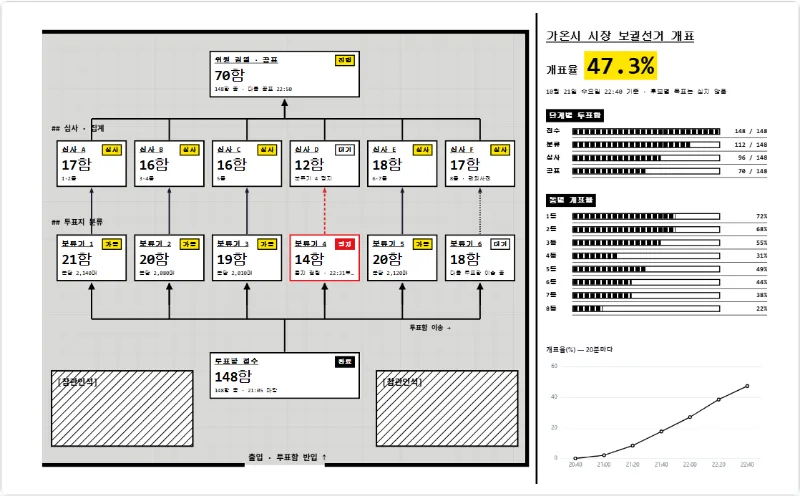
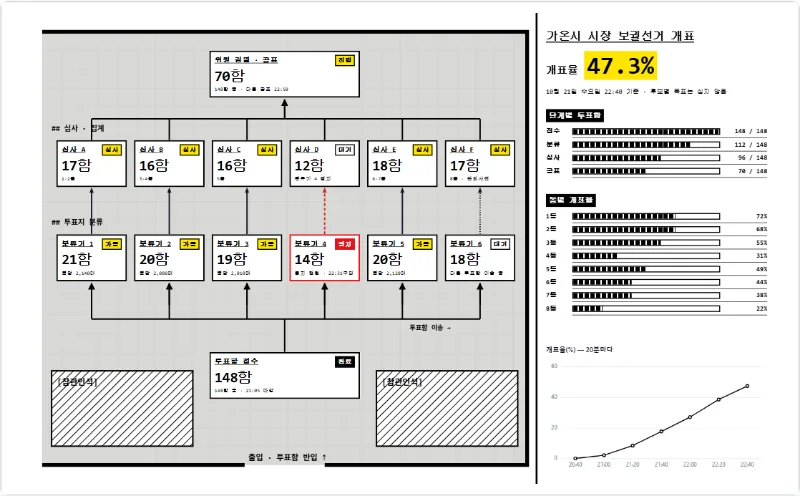
fix: look reports a text an element cuts short with an ellipsis; the rules say how to size a marker; two gallery boards no longer cut a line short

diff --git a/packages/samples/src/packs/recycling-polaroid.ts b/packages/samples/src/packs/recycling-polaroid.ts
@@ -33,7 +33,7 @@ const board: Board = {
     },
     "trucks": {
       "template": "<section class=\"tr\"><h2>오늘 나가는 트럭</h2><ol>{{#items}}<li class=\"{{state}}\"><time>{{time}}</time><b>{{what}}</b><span>{{to}}</span><em>{{word}}</em></li>{{/items}}</ol></section>",
-      "style": ".tr{height:100%;box-sizing:border-box;padding:14px 18px 0 72px;font-family:\"Nanum Pen Script\", \"Nanum Brush Script\", cursive;color:#2a2f3a}\nh2{margin:0 0 10px;font:36px/1 \"Nanum Pen Script\", \"Nanum Brush Script\", cursive}\nol{margin:0;padding:0;list-style:none}\nli{display:grid;grid-template-columns:52px minmax(0,1fr) 124px 62px;gap:8px;align-items:baseline;height:34px;font:21px/34px \"Nanum Pen Script\", \"Nanum Brush Script\", cursive;white-space:nowrap}\nli>*{overflow:hidden;text-overflow:ellipsis}\ntime{font:14px \"Pretendard\", \"Malgun Gothic\", \"Apple SD Gothic Neo\", sans-serif;font-variant-numeric:tabular-nums;color:#5b6270}\nspan{color:#5b6270}\nem{font-style:normal;text-align:center}\n.done{color:#8a8f99}.done em{text-decoration:line-through}\n.loading em{border-bottom:2px solid #2a2f3a}\n.waiting em{color:#d23a2f}",
+      "style": ".tr{height:100%;box-sizing:border-box;padding:14px 18px 0 72px;font-family:\"Nanum Pen Script\", \"Nanum Brush Script\", cursive;color:#2a2f3a}\nh2{margin:0 0 10px;font:36px/1 \"Nanum Pen Script\", \"Nanum Brush Script\", cursive}\nol{margin:0;padding:0;list-style:none}\nli{display:grid;grid-template-columns:52px minmax(0,1fr) 116px 62px;gap:8px;align-items:baseline;height:34px;font:21px/34px \"Nanum Pen Script\", \"Nanum Brush Script\", cursive;white-space:nowrap}\nli>*{overflow:hidden;text-overflow:ellipsis}\ntime{font:14px \"Pretendard\", \"Malgun Gothic\", \"Apple SD Gothic Neo\", sans-serif;font-variant-numeric:tabular-nums;color:#5b6270}\nspan{color:#5b6270}\nem{font-style:normal;text-align:center}\n.done{color:#8a8f99}.done em{text-decoration:line-through}\n.loading em{border-bottom:2px solid #2a2f3a}\n.waiting em{color:#d23a2f}",
       "props": {
         "items": "list"
       }

diff --git a/packages/samples/src/packs/count-hall.ts b/packages/samples/src/packs/count-hall.ts
@@ -28,7 +28,7 @@ const board: Board = {
   "elements": {
     "station": {
       "template": "<section class=\"st {{s.state}}\"><header><b>{{s.name}}</b><span>{{s.word}}</span></header><strong>{{s.count}}</strong><small>{{s.sub}}</small></section>",
-      "style": ".st{height:100%;box-sizing:border-box;display:grid;align-content:space-between;padding:6px 8px;background:#fff;border:3px solid #000000;font-family:\"IBM Plex Mono\", \"D2Coding\", \"JetBrains Mono\", Consolas, \"Courier New\", monospace;color:#000000}\nheader{display:flex;justify-content:space-between;align-items:baseline;gap:6px}\nb{font-size:15px;font-weight:700;text-decoration:underline}\nspan{font-size:13px;font-weight:700;padding:0 4px;border:2px solid #000000}\n.run span{background:#ffe500}\n.done span{background:#000000;color:#fff}\n.stop{border-color:#e5141b;outline:3px solid #e5141b}\n.stop span{background:#e5141b;color:#fff;border-color:#e5141b}\nstrong{font-size:30px;font-weight:700;line-height:1;font-variant-numeric:tabular-nums}\nsmall{font-size:12px;white-space:nowrap;overflow:hidden;text-overflow:ellipsis}",
+      "style": ".st{height:100%;box-sizing:border-box;display:grid;align-content:space-between;padding:6px 8px;background:#fff;border:3px solid #000000;font-family:\"IBM Plex Mono\", \"D2Coding\", \"JetBrains Mono\", Consolas, \"Courier New\", monospace;color:#000000}\nheader{display:flex;justify-content:space-between;align-items:baseline;gap:6px}\nb{font-size:15px;font-weight:700;text-decoration:underline}\nspan{font-size:13px;font-weight:700;padding:0 4px;border:2px solid #000000}\n.run span{background:#ffe500}\n.done span{background:#000000;color:#fff}\n.stop{border-color:#e5141b;outline:3px solid #e5141b}\n.stop span{background:#e5141b;color:#fff;border-color:#e5141b}\nstrong{font-size:30px;font-weight:700;line-height:1;font-variant-numeric:tabular-nums}\nsmall{font-size:11px;white-space:nowrap;overflow:hidden;text-overflow:ellipsis}",
       "props": {
         "s": "object"
       }

diff --git a/packages/mcp/src/look-page.ts b/packages/mcp/src/look-page.ts
@@ -47,6 +47,18 @@ export function findProblems(
     return spill;
   }
 
+  /** How many texts inside `root` are cut short with an ellipsis — a line set to end in "…" when it does not fit (what the
+   *  built-in markers do with a name or a note) that is wider than its box. The reader sees "Ex…"; nothing spills, so
+   *  `spillOf` says nothing of it. */
+  function cutShortIn(root: ShadowRoot): number {
+    let cut = 0;
+    for (const part of root.querySelectorAll('*')) {
+      if (part instanceof HTMLStyleElement) continue;
+      if (getComputedStyle(part).textOverflow === 'ellipsis' && part.scrollWidth > part.clientWidth + 1) cut += 1;
+    }
+    return cut;
+  }
+
   /** How far down the boxes drawn inside `root` reach, shadow roots within it included — the bottom of the content.
    *  Boxes, not the scroll height: a line's text may reach a few px past its line box (a font's own height over a
    *  tight line height), which scrolls nothing and cuts nothing off. */
@@ -71,6 +83,8 @@ export function findProblems(
     const element = frame.querySelector('[data-element]') as HTMLElement | null;
     const spill = element?.shadowRoot ? spillOf(element, element.shadowRoot) : 0;
     if (spill > spillTolerancePx) out.push({ path, message: `its element draws up to ${Math.round(spill)} px past its box — over its neighbours; give the node more room or draw smaller` });
+    const cut = element?.shadowRoot ? cutShortIn(element.shadowRoot) : 0;
+    if (cut > 0) out.push({ path, message: `its element cuts ${cut === 1 ? 'a text' : `${cut} texts`} short with "…" — the box is too narrow for ${cut === 1 ? 'it' : 'them'}; give the node more width (its size) rather than a shorter text` });
     const widget = frame.querySelector('u-widget') as HTMLElement | null;
     const inner = (widget?.shadowRoot?.firstElementChild ?? widget) as HTMLElement | null;
     if (inner) {

diff --git a/packages/designer/src/board/rulebook.ts b/packages/designer/src/board/rulebook.ts
@@ -92,7 +92,9 @@ ${PART_KINDS.map(kindRow).join('\n')}`,
   an \`each\` part is placed item by item inside its own entry (\`{ "P1": [x, y, w, h], … }\`), or — when the items change and cannot be
   named — by their own fields: \`"quake": { "at": ["lon", "lat"], "frame": [-180, 90, 180, -90], "size": [14, 14] }\` puts each item
   at the point its two fields say; \`frame\` is the values at the canvas's left, top, right and bottom edges (the canvas's own
-  coordinates when left out), \`size\` the box centred on the point (give one for a marker). An item with no number in a field, or
+  coordinates when left out), \`size\` the box centred on the point (give one for a marker: a dot alone is [14, 14]; a marker that carries
+  its name, status or note draws them to the right of the dot, so give it the room for the text — about [150, 40] — and know the box, not
+  the dot, is what is centred on the point). An item with no number in a field, or
   outside the frame, is not drawn — \`look\` counts them. The data needs a \`key\`; the projection is linear (right for a plan or an
   equirectangular map). A part is placed one way, not both. A shape is a \`box\` (with \`label\`), a \`text\` at a point,
   a \`line\` through points or a \`path\` (absolute M · L · C · Q · Z).

diff --git a/packages/mcp/src/look-page.e2e.test.ts b/packages/mcp/src/look-page.e2e.test.ts
@@ -49,6 +49,16 @@ describe('findProblems', () => {
     ]);
   });
 
+  it('reports a text an element cuts short with an ellipsis — nothing spills, the reader sees "Ex…" — and none that fits', async () => {
+    const line = (width: number) => `<template shadowrootmode="open"><div style="width:${width}px;display:grid"><b style="overflow:hidden;text-overflow:ellipsis;white-space:nowrap">Excavator A</b></div></template>`;
+    await show(`
+      <div data-node-id="a"><div data-element style="position:relative;width:40px;height:20px">${line(40)}</div></div>
+      <div data-node-id="b"><div data-element style="position:relative;width:200px;height:20px">${line(200)}</div></div>`);
+    expect(await page.evaluate(findProblems, [node('a'), node('b')])).toEqual([
+      { path: '/nodes/a', message: 'its element cuts a text short with "…" — the box is too narrow for it; give the node more width (its size) rather than a shorter text' },
+    ]);
+  });
+
   it('does not count what the element cuts off itself — but does count a positioned part its static clip does not cut', async () => {
     await show(`
       <div data-node-id="a"><div data-element style="position:relative;width:100px;height:50px">

diff --git a/packages/mcp/CHANGELOG.md b/packages/mcp/CHANGELOG.md
@@ -17,6 +17,9 @@ All notable changes to this package are documented here. The format follows
   was called wrong by `validate`.
 - The rules' JSON Patch section says `add` makes only the last part of its path — a new board has no `/data` or `/statuses` to
   add into — and that renaming a part changes every `of` and `each` that names it.
+- **`look` reports a text an element cuts short with "…"** — a built-in marker whose box is too narrow for its name showed
+  "Ex…" while `look` answered "nothing to fix", because nothing spilled. It now says the element cuts a text short and that the
+  node needs more width.
 
 ## [0.25.0] - 2026-10-27
 

diff --git a/packages/designer/CHANGELOG.md b/packages/designer/CHANGELOG.md
@@ -6,6 +6,11 @@ All notable changes to this package are documented here. The format follows
 
 ## [Unreleased]
 
+### Changed
+
+- The rules (`boardRulebook`) say how to size a marker placed by its item's fields: a dot alone is `[14, 14]`, a marker that
+  carries its name, status or note needs the room for the text, and it is the box, not the dot, that is centred on the point.
+
 ## [0.1.0] - 2026-10-27
 
 ### Added
